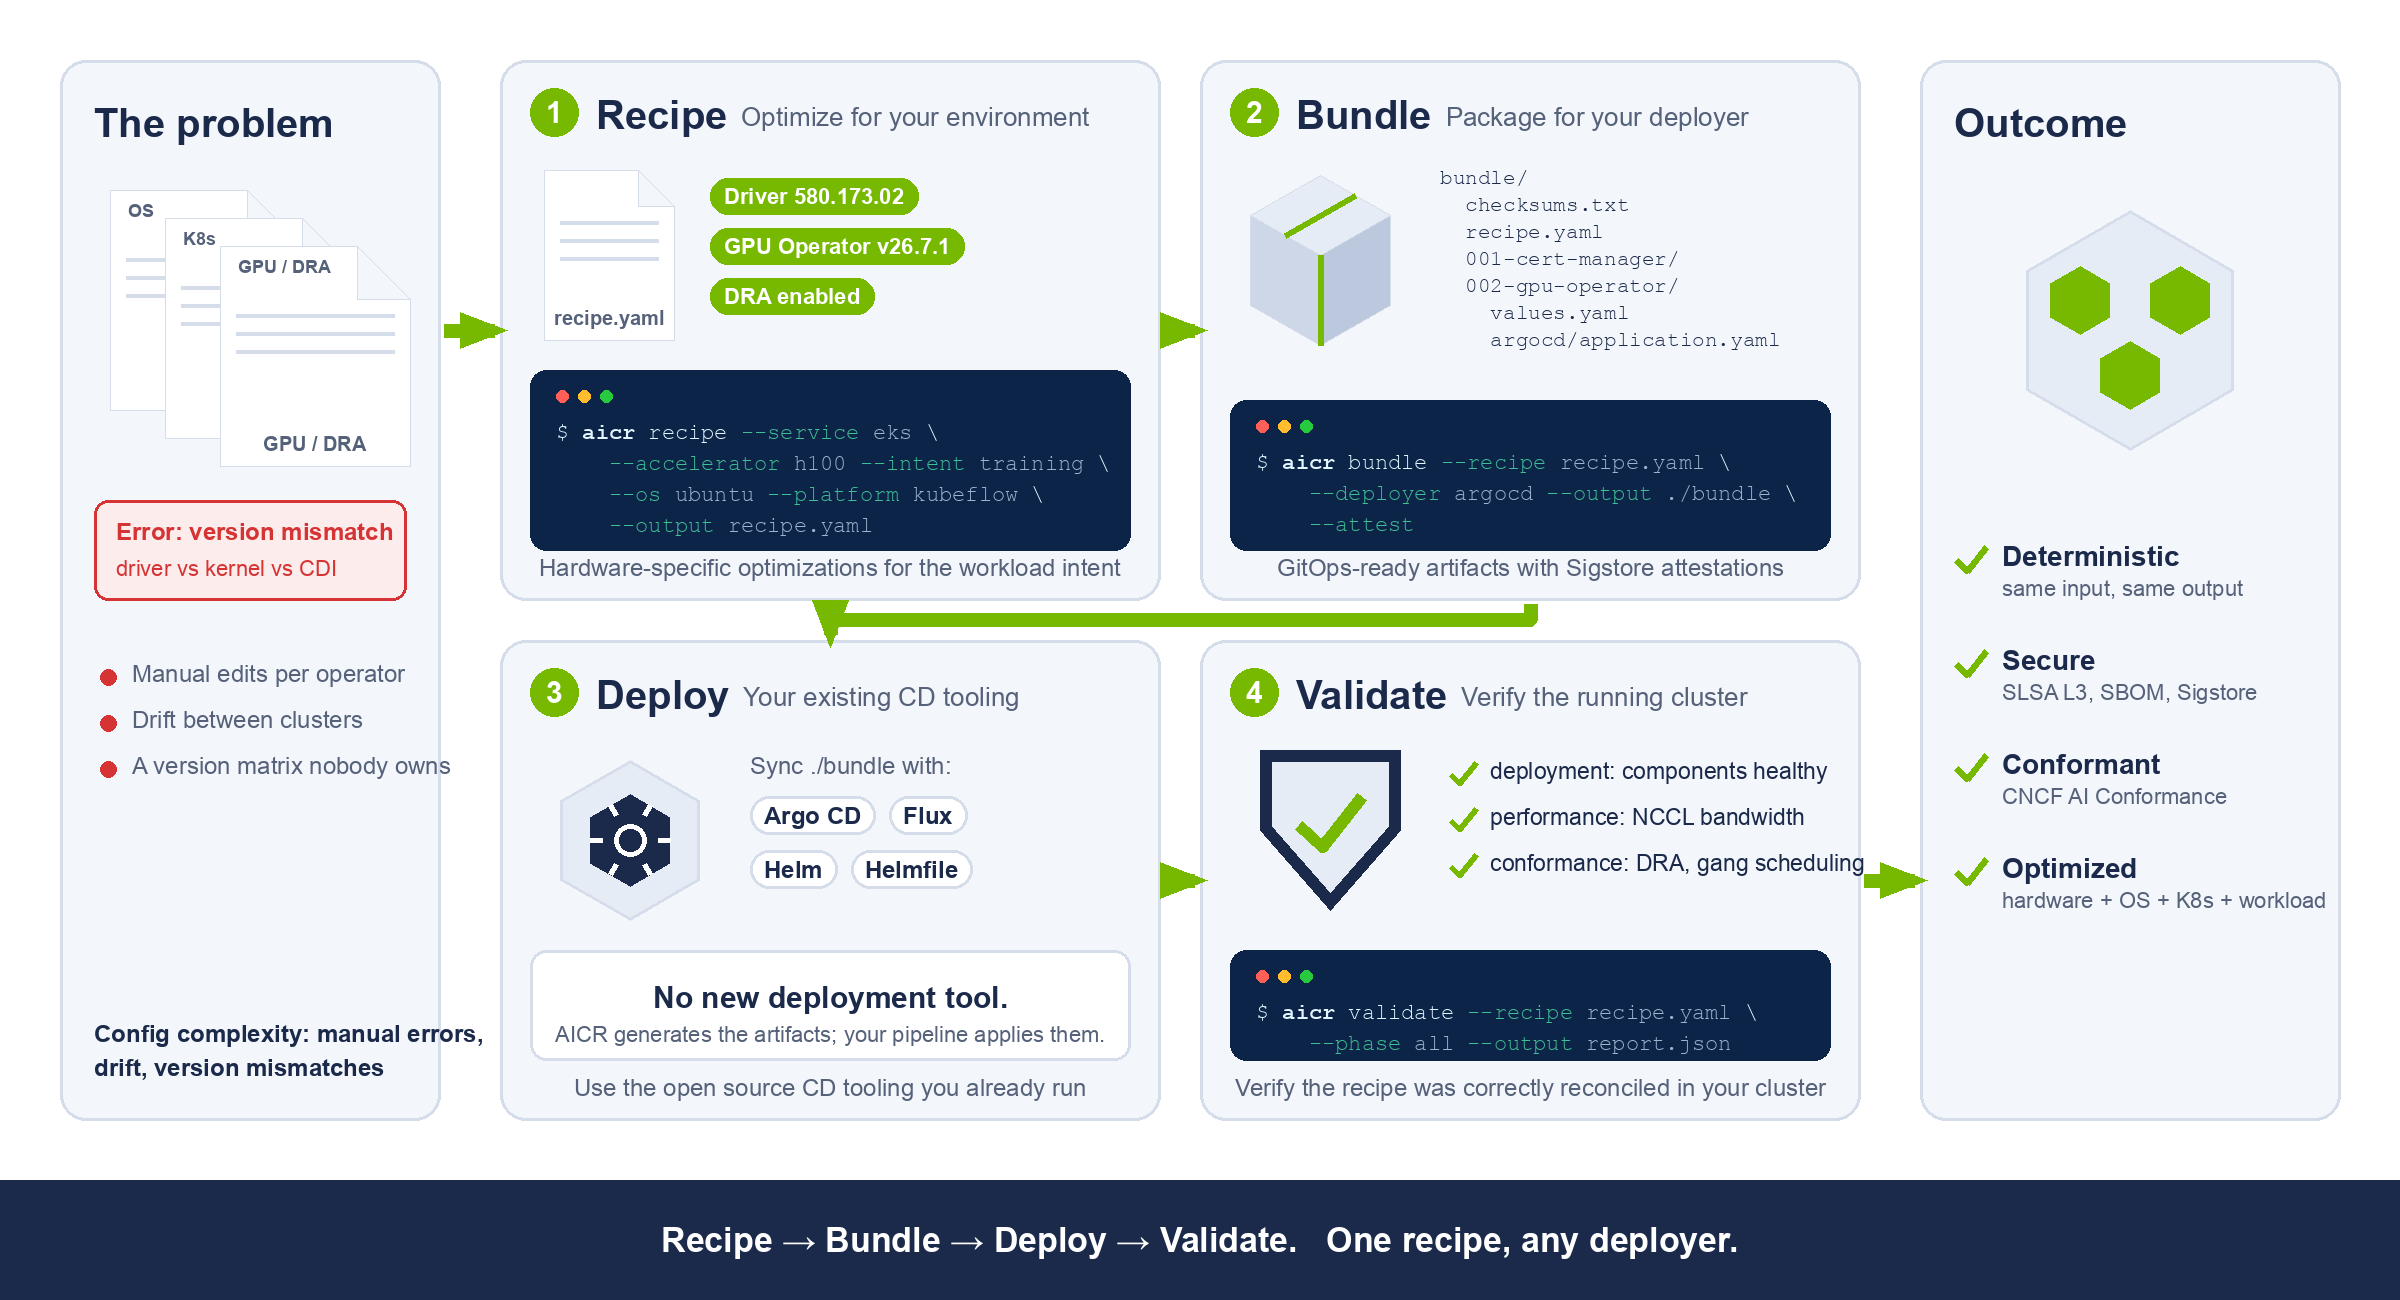
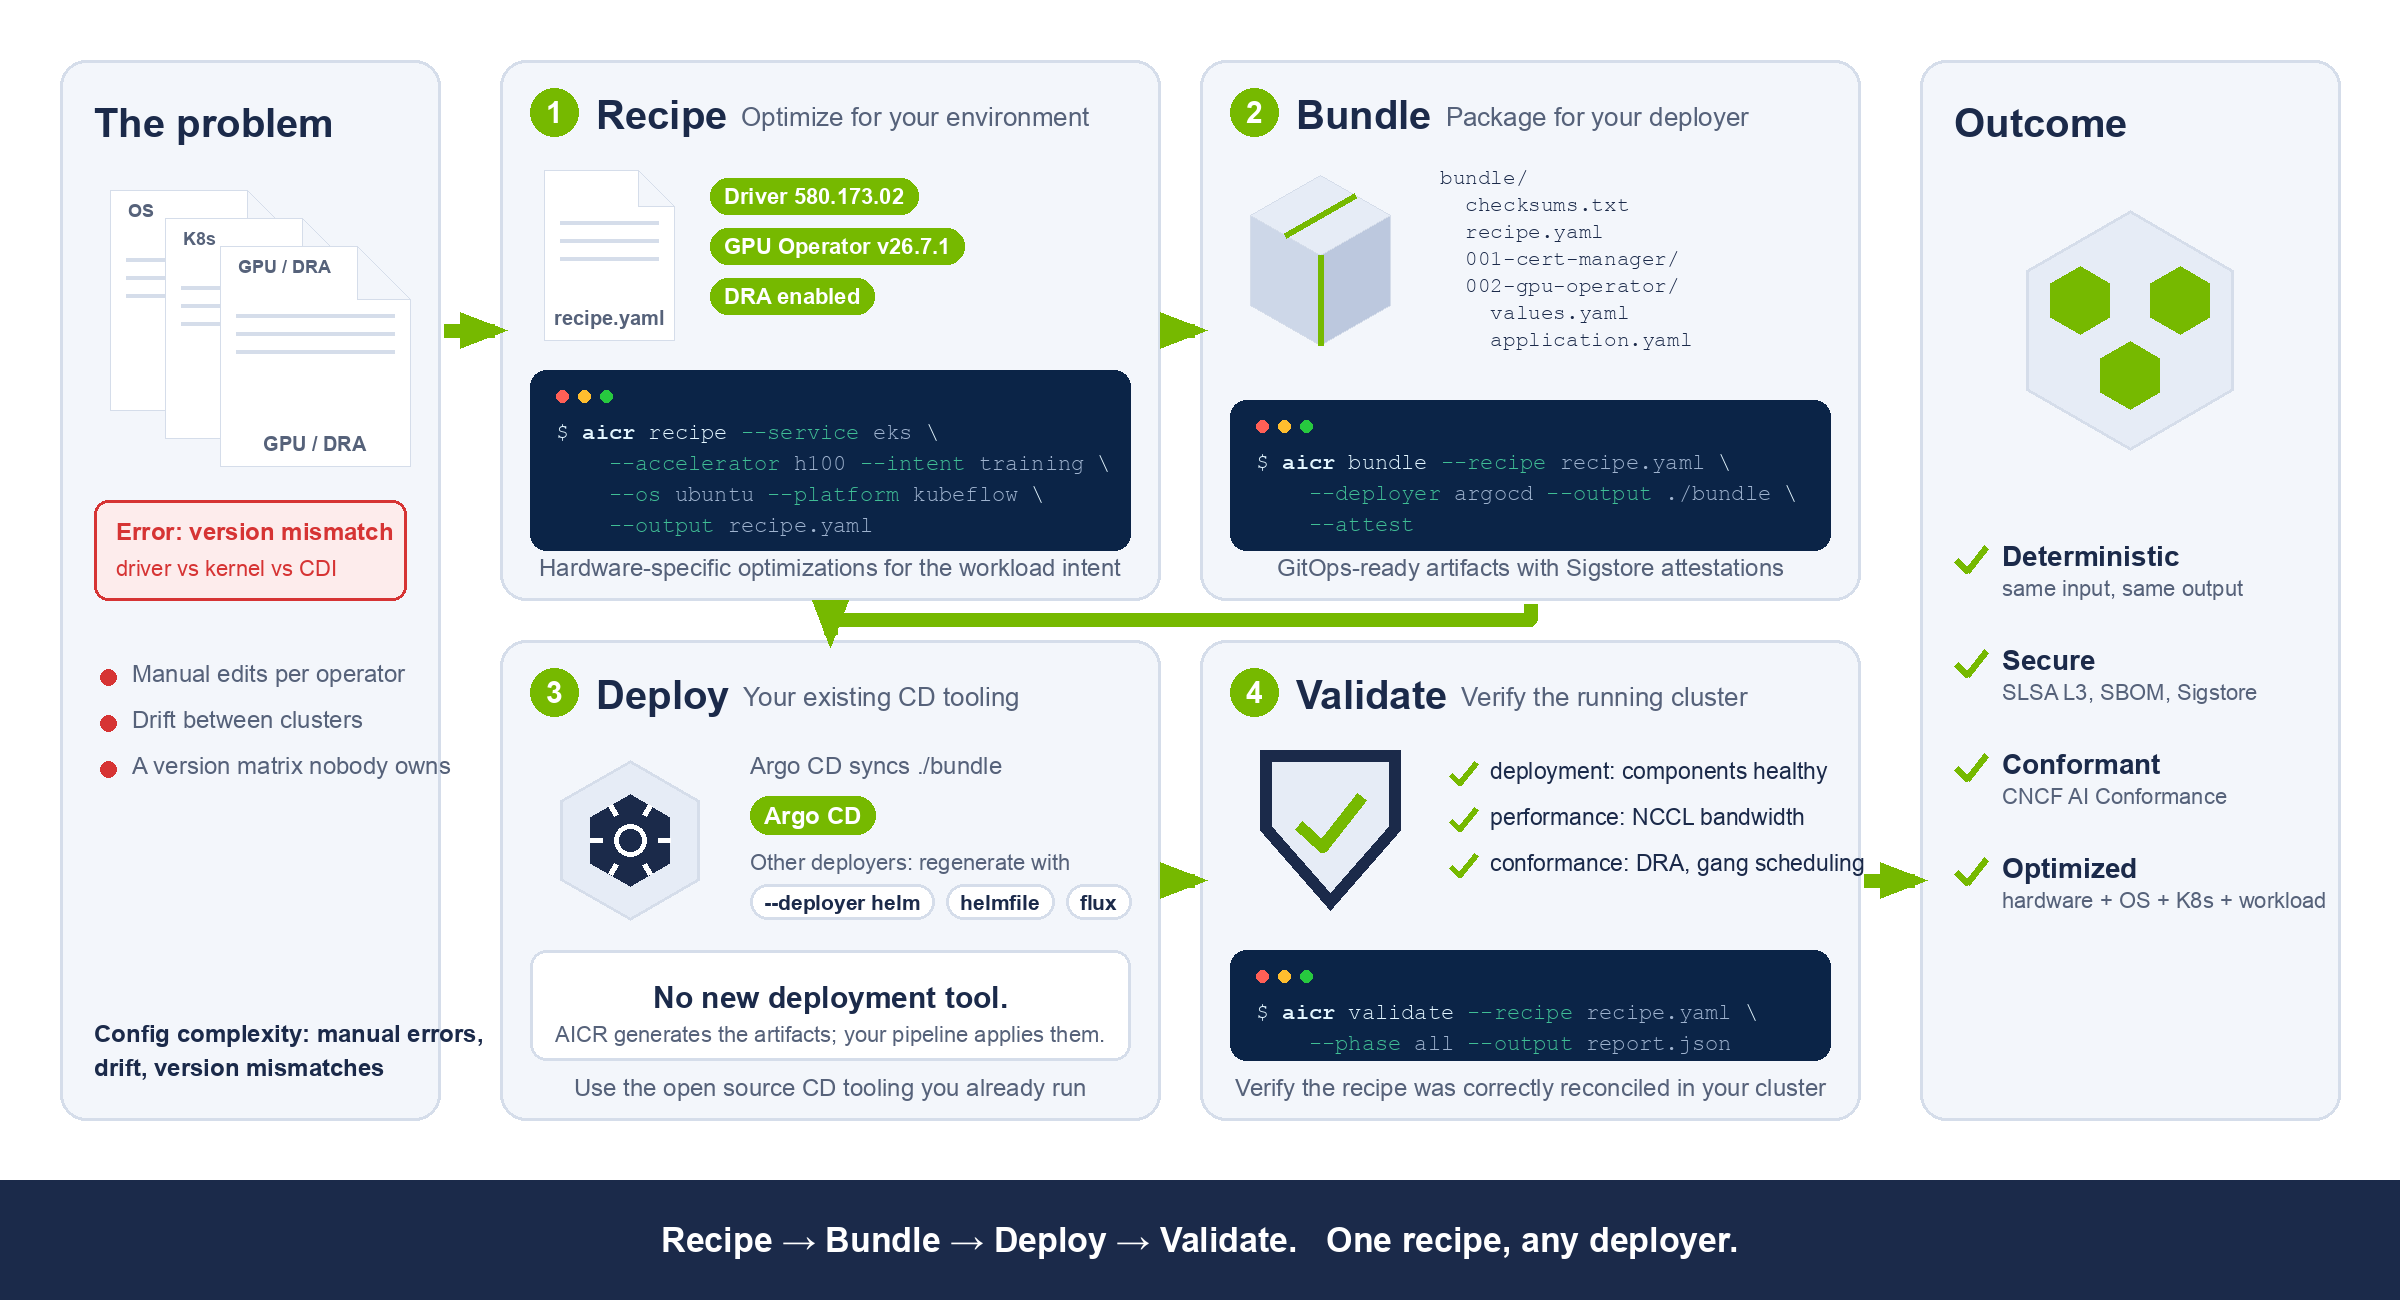
docs(demos): e2e prompt and render show one deployer per bundle, fix Argo CD path and recipe input

Changed region(s): [[0.3125, 0.5846, 0.4688, 0.7077], [0.625, 0.2462, 0.6875, 0.2769]]

diff --git a/demos/images/e2e-kubecon.md b/demos/images/e2e-kubecon.md
@@ -16,7 +16,7 @@ Caption: "Config complexity: manual errors, drift, version mismatches"
 **Step 1 - RECIPE**
 Icon: Mixing bowl with ingredients
 Command: `aicr recipe --service eks --accelerator h100 --intent training --os ubuntu --platform kubeflow --output recipe.yaml`
-Visual: Cluster snapshot + an Intent toggle (Training / Inference) → a glowing recipe.yaml
+Visual: Environment criteria (service, accelerator, OS, platform) + an Intent toggle (Training / Inference) → a glowing recipe.yaml
 Callouts (three short pills): "Driver 580.173.02", "GPU Operator v26.7.1", "DRA enabled"
 Caption: "Generate hardware-specific optimizations for workload intent"
 
@@ -32,15 +32,15 @@ bundle/
 ├── 001-cert-manager/
 ├── 002-gpu-operator/
 │   ├── values.yaml
-│   └── argocd/application.yaml
+│   └── application.yaml
 └── ...
 ```
 
 Caption: "Create GitOps-ready artifacts with Sigstore attestations"
 
 **Step 3 - DEPLOY**
-Icon: Argo CD and Helm logos
-Visual: GitOps tooling syncing the Step 2 artifacts into the cluster
+Icon: Argo CD logo
+Visual: Argo CD syncing the Step 2 bundle into the cluster. A bundle is generated for one deployer; a small side note lists the others (Helm, Helmfile, Flux) as `--deployer` values that regenerate the bundle, not as consumers of the same `./bundle`
 Caption: "Use the open source CD tooling you already run"
 
 **Step 4 - VALIDATE**
